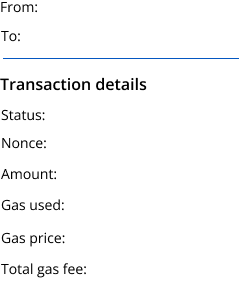
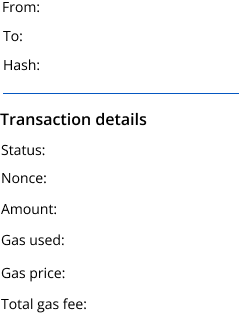
Added transaction hash in 'TransactionDetails' toplevel

diff --git a/App/YourWallet/TokenDetails/TransactionTile/TransactionDetails/TransactionDetails.py b/App/YourWallet/TokenDetails/TransactionTile/TransactionDetails/TransactionDetails.py
@@ -17,18 +17,24 @@ class TransactionDetails(Toplevel):
         self.token = token
 
         self.title(f"Transaction #{transaction_json['nonce']}")
-        self.geometry("301x380")
+        self.geometry("301x432")
         self.resizable(False, False)
 
         self.canvas = Canvas(
             self,
             bg="#ffffff",
-            height=380,
+            height=432,
             width=301,
             bd=0,
             highlightthickness=0,
             relief="ridge")
         self.canvas.place(x=0, y=0)
+
+        self.background_img = PhotoImage(file=self.BACKGROUND)
+        self.background = self.canvas.create_image(
+            147.5, 246.0,
+            image=self.background_img
+        )
 
         self.title_label = Label(
             self,
@@ -57,7 +63,8 @@ class TransactionDetails(Toplevel):
             borderwidth=0,
             highlightthickness=0,
             command=lambda: self.copy_to_clipboard(self.transaction_json["from"]),
-            relief="flat"
+            relief="flat",
+            cursor="hand2"
         )
 
         self.copy_from_btn.place(
@@ -82,11 +89,38 @@ class TransactionDetails(Toplevel):
             borderwidth=0,
             highlightthickness=0,
             command=lambda: self.copy_to_clipboard(self.transaction_json["to"]),
-            relief="flat"
+            relief="flat",
+            cursor="hand2"
         )
 
         self.copy_to_btn.place(
             x=255, y=109,
+            width=18,
+            height=17
+        )
+
+        self.txn_hash_label = Label(
+            self,
+            text=self.format_txn_hash(hash=self.transaction_json["hash"]),
+            font=("OpenSansRoman-SemiBold", int(10.8)),
+            bg="white"
+        )
+        self.txn_hash_label.place(
+            x=70, y=135
+        )
+
+        self.copy_to_btn = Button(
+            self,
+            image=self.copy_btn_img,
+            borderwidth=0,
+            highlightthickness=0,
+            command=lambda: self.copy_to_clipboard(self.transaction_json["hash"]),
+            relief="flat",
+            cursor="hand2"
+        )
+
+        self.copy_to_btn.place(
+            x=255, y=138,
             width=18,
             height=17
         )
@@ -99,7 +133,7 @@ class TransactionDetails(Toplevel):
             bg="white"
         )
         self.status_label.place(
-            x=77.5, y=185
+            x=77.5, y=220
         )
 
         self.nonce_label = Label(
@@ -109,7 +143,7 @@ class TransactionDetails(Toplevel):
             bg="white"
         )
         self.nonce_label.place(
-            x=79, y=213
+            x=79, y=248
         )
 
         self.amount_label = Label(
@@ -120,7 +154,7 @@ class TransactionDetails(Toplevel):
             bg="white"
         )
         self.amount_label.place(
-            x=88.5, y=244
+            x=88.5, y=279
         )
 
         self.gas_used_label = Label(
@@ -130,7 +164,7 @@ class TransactionDetails(Toplevel):
             bg="white"
         )
         self.gas_used_label.place(
-            x=96.5, y=275
+            x=96.5, y=310
         )
 
         self.gas_price_label = Label(
@@ -141,7 +175,7 @@ class TransactionDetails(Toplevel):
             bg="white"
         )
         self.gas_price_label.place(
-            x=96.5, y=307.8
+            x=96.5, y=342.8
         )
 
         self.total_gas_fee_label = Label(
@@ -151,13 +185,7 @@ class TransactionDetails(Toplevel):
             bg="white"
         )
         self.total_gas_fee_label.place(
-            x=118.2, y=338.8
-        )
-
-        self.background_img = PhotoImage(file=self.BACKGROUND)
-        self.background = self.canvas.create_image(
-            149.5, 228.0,
-            image=self.background_img
+            x=118.2, y=373.8
         )
 
     def get_decimals(self):
@@ -168,6 +196,9 @@ class TransactionDetails(Toplevel):
 
     def format_address(self, address=None):
         return f"{address[0:11]}...{address[31:len(address)]}"
+
+    def format_txn_hash(self, hash=None):
+        return f"{hash[0:11]}...{hash[55:len(hash)]}"
 
     def get_total_gas_fee(self):
         num = utility_functions.convert_exponential_to_decimal(
